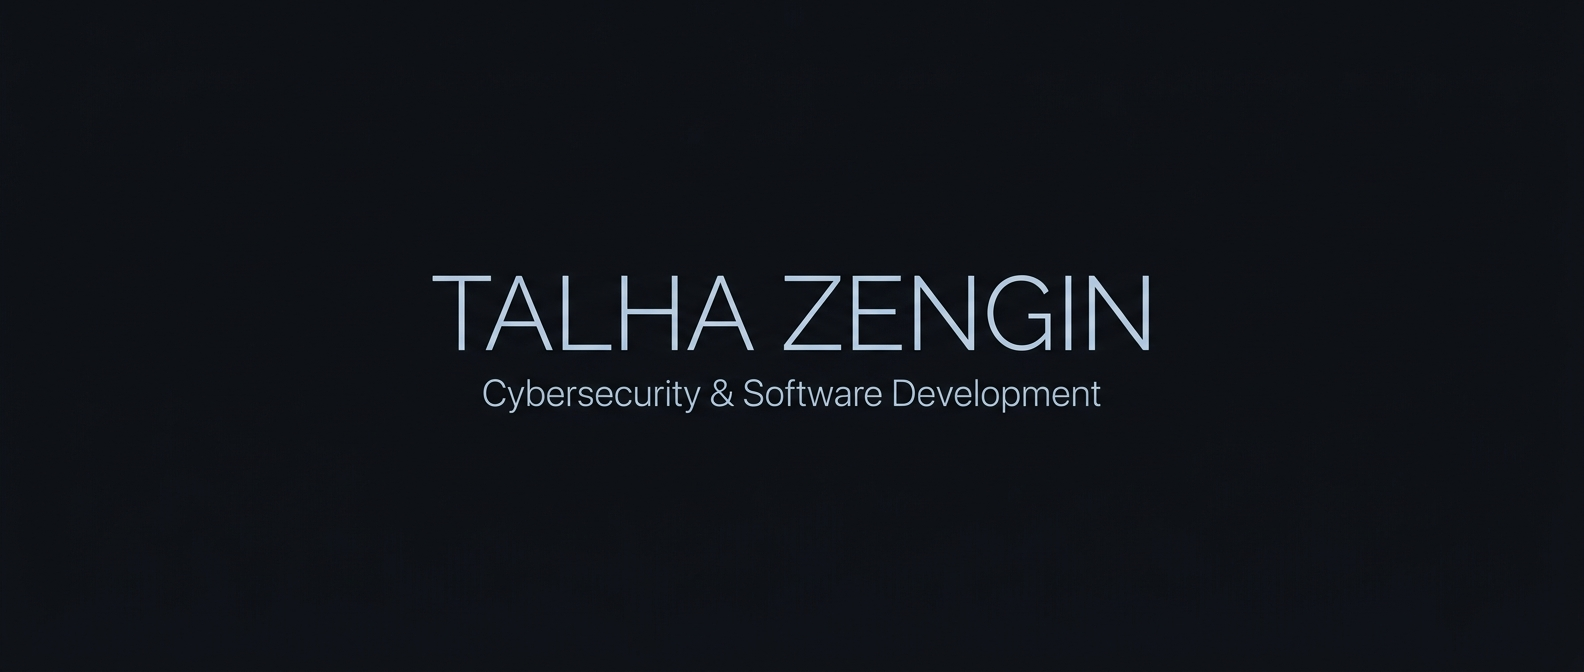
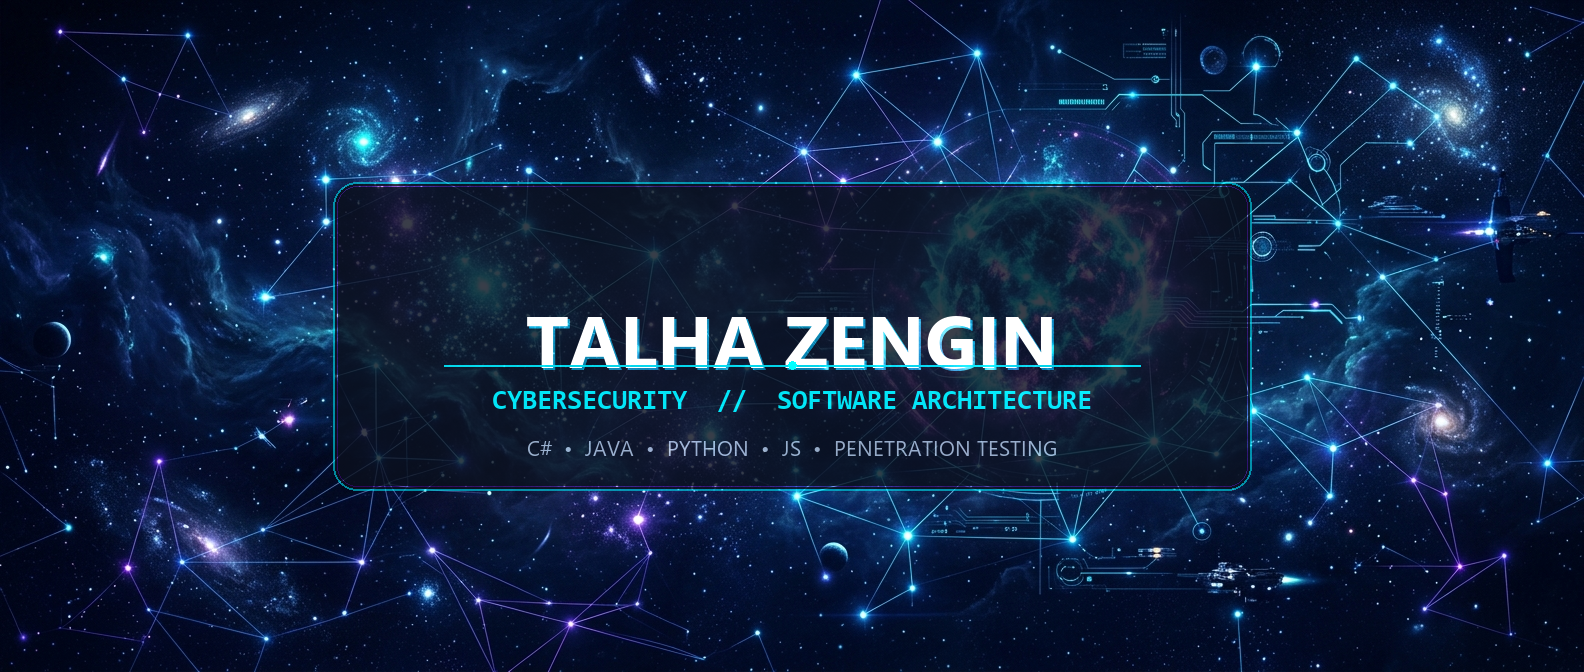
feat: high-impact bespoke header with name & rich developer showcase

diff --git a/README.md b/README.md
@@ -1,38 +1,121 @@
-<img src="./assets/header.png" width="100%">
+<div align="center">
+
+<img src="./assets/header.png" width="100%" alt="Talha Zengin Banner" style="border-radius: 12px; box-shadow: 0 8px 30px rgba(0,0,0,0.5);">
+
+<br><br>
+
+[![Typing SVG](https://readme-typing-svg.demolab.com?font=Fira+Code&weight=600&size=20&pause=1200&color=00F0FF&center=true&vCenter=true&width=620&lines=Cybersecurity+Researcher+%26+Analyst;Full-Stack+%26+Backend+Software+Developer;Exploring+C%23+%E2%80%A2+Java+%E2%80%A2+Python+%E2%80%A2+JavaScript;Securing+Modern+Digital+Infrastructures)](https://git.io/typing-svg)
+
+<p align="center">
+  <a href="https://github.com/talhazgnn">
+    <img src="https://img.shields.io/badge/GitHub-Profile-0A0F1D?style=for-the-badge&logo=github&logoColor=00F0FF" alt="GitHub" />
+  </a>
+  <a href="mailto:talha.zgnn@gmail.com">
+    <img src="https://img.shields.io/badge/Direct_Comms-Email-0A0F1D?style=for-the-badge&logo=gmail&logoColor=EA4335" alt="Email" />
+  </a>
+  <a href="https://github.com/talhazgnn/portfolyo">
+    <img src="https://img.shields.io/badge/Live_Showcase-Portfolyo-0A0F1D?style=for-the-badge&logo=safari&logoColor=38BDF8" alt="Portfolyo" />
+  </a>
+</p>
+
+</div>
+
+---
+
+### 🚀 `ABOUT ME`
+
+I am a **Software Developer** and **Cybersecurity Enthusiast** based in Turkey, dedicated to engineering resilient software systems and understanding the mechanics of cyber defense.
+
+- 🛡 **Cybersecurity Focus:** Penetration testing, network protocol analysis, threat modeling, and defensive security.
+- 💻 **Engineering Stack:** Designing clean, maintainable backend and system applications in **C#**, **Java**, and **Python**.
+- 🌐 **Web Architecture:** Developing fast, responsive user experiences with modern **JavaScript**, **HTML5**, and **CSS3**.
+- 🎯 **Continuous Mission:** Bridging the gap between robust software engineering and zero-trust security postures.
 
 <br>
 
-I'm a cybersecurity enthusiast and software developer from Turkey. I focus on building secure applications, exploring offensive and defensive security, and writing clean code across multiple languages.
+---
 
-Currently diving deeper into penetration testing, network defense, and backend architecture.
+### 🛠 `TECH STACK & ARSENAL`
 
-<br>
-
-### What I work with
-
-**Languages** &nbsp; C# · Java · Python · JavaScript · HTML · CSS
-
-**Security** &nbsp; Penetration Testing · Network Security · Security Auditing · Wireshark · Kali Linux
-
-**Tools** &nbsp; Visual Studio · VS Code · Git · Linux
+#### 💻 Core Development & Languages
+<div align="left">
+  <a href="https://skillicons.dev">
+    <img src="https://skillicons.dev/icons?i=cs,java,py,js,html,css,dotnet&theme=dark" alt="Languages" />
+  </a>
+</div>
 
 <br>
 
-### Projects
-
-- [**portfolyo**](https://github.com/talhazgnn/portfolyo) — Personal portfolio website built with HTML, CSS and JavaScript
-
-<br>
-
-### Stats
-
-<picture>
-  <source media="(prefers-color-scheme: dark)" srcset="https://github-readme-stats.vercel.app/api?username=talhazgnn&show_icons=true&hide_border=true&bg_color=00000000&title_color=58a6ff&icon_color=8b949e&text_color=c9d1d9">
-  <img src="https://github-readme-stats.vercel.app/api?username=talhazgnn&show_icons=true&hide_border=true" alt="GitHub Stats">
-</picture>
+#### 🛡 Cybersecurity & Systems Toolkit
+<div align="left">
+  <a href="https://skillicons.dev">
+    <img src="https://skillicons.dev/icons?i=linux,kali,bash,git,github,vscode,visualstudio&theme=dark" alt="Tools & Security" />
+  </a>
+</div>
 
 <br>
 
-### Contact
+#### 🔍 Security & Network Analysis
+<div align="left">
+  <img src="https://img.shields.io/badge/Wireshark-Network_Analysis-1679A7?style=flat-square&logo=wireshark&logoColor=white" />
+  <img src="https://img.shields.io/badge/Kali_Linux-Offensive_Security-557C94?style=flat-square&logo=kalilinux&logoColor=white" />
+  <img src="https://img.shields.io/badge/Penetration_Testing-Auditing-8A2BE2?style=flat-square&logo=target&logoColor=white" />
+  <img src="https://img.shields.io/badge/Vulnerability_Assessment-Active-00C853?style=flat-square&logo=checkmarx&logoColor=white" />
+</div>
 
-📫 &nbsp; talha.zgnn@gmail.com
+<br>
+
+---
+
+### 📊 `ACTIVITY & METRICS`
+
+<div align="center">
+
+<table border="0" cellspacing="0" cellpadding="0">
+  <tr>
+    <td align="center" width="50%">
+      <img src="https://github-readme-stats.vercel.app/api?username=talhazgnn&show_icons=true&theme=tokyonight&hide_border=false&border_radius=12&bg_color=0a0f1d&title_color=38bdf8&icon_color=00f0ff&text_color=cbd5e1&border_color=1e293b" width="100%" alt="GitHub Stats" />
+    </td>
+    <td align="center" width="50%">
+      <img src="https://github-readme-stats.vercel.app/api/top-langs/?username=talhazgnn&layout=compact&theme=tokyonight&hide_border=false&border_radius=12&bg_color=0a0f1d&title_color=38bdf8&icon_color=00f0ff&text_color=cbd5e1&border_color=1e293b" width="100%" alt="Top Languages" />
+    </td>
+  </tr>
+  <tr>
+    <td colspan="2" align="center">
+      <br>
+      <img src="https://github-readme-streak-stats.herokuapp.com/?user=talhazgnn&theme=tokyonight&border_radius=12&background=0a0f1d&border=1e293b&fire=00f0ff&ring=38bdf8&dates=cbd5e1&currStreakLabel=38bdf8" width="100%" alt="GitHub Streak" />
+    </td>
+  </tr>
+</table>
+
+</div>
+
+<br>
+
+---
+
+### 🛸 `FEATURED REPOSITORIES`
+
+<div align="center">
+
+| Project | Description | Stack | Status |
+| :--- | :--- | :---: | :---: |
+| 🌌 [**`portfolyo`**](https://github.com/talhazgnn/portfolyo) | Modern personal portfolio & interactive showcase platform | `HTML5` `CSS3` `JavaScript` | 🚀 **Live** |
+| 🛡 [**`SecOps-Toolkit`**](#) | Custom security scripts, network scanners & audit utilities | `Python` `Bash` `Kali` | 🛰 **In Development** |
+| ⚡ [**`Core-Architectures`**](#) | High-performance console applications & data algorithms | `C#` `.NET` `Java` | 🧪 **Expanding** |
+
+</div>
+
+<br>
+
+---
+
+<div align="center">
+
+```
+"Securing the boundaries of cyberspace, one line of code at a time."
+```
+
+<sub>Built with precision by <b>Talha Zengin</b> • 2026</sub>
+
+</div>
